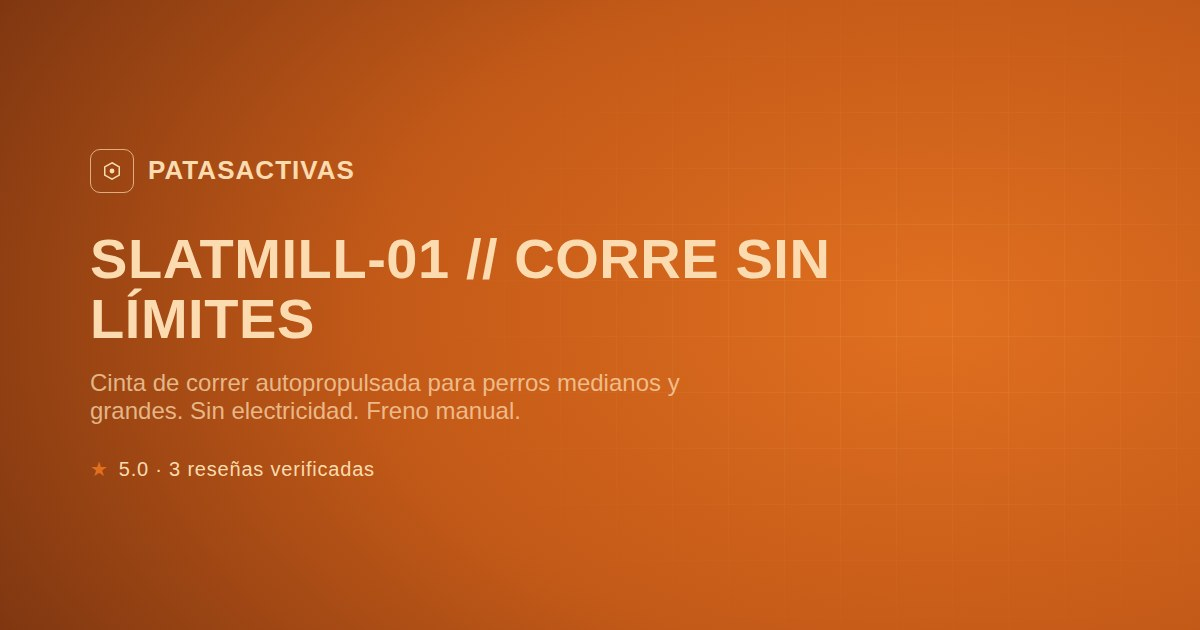
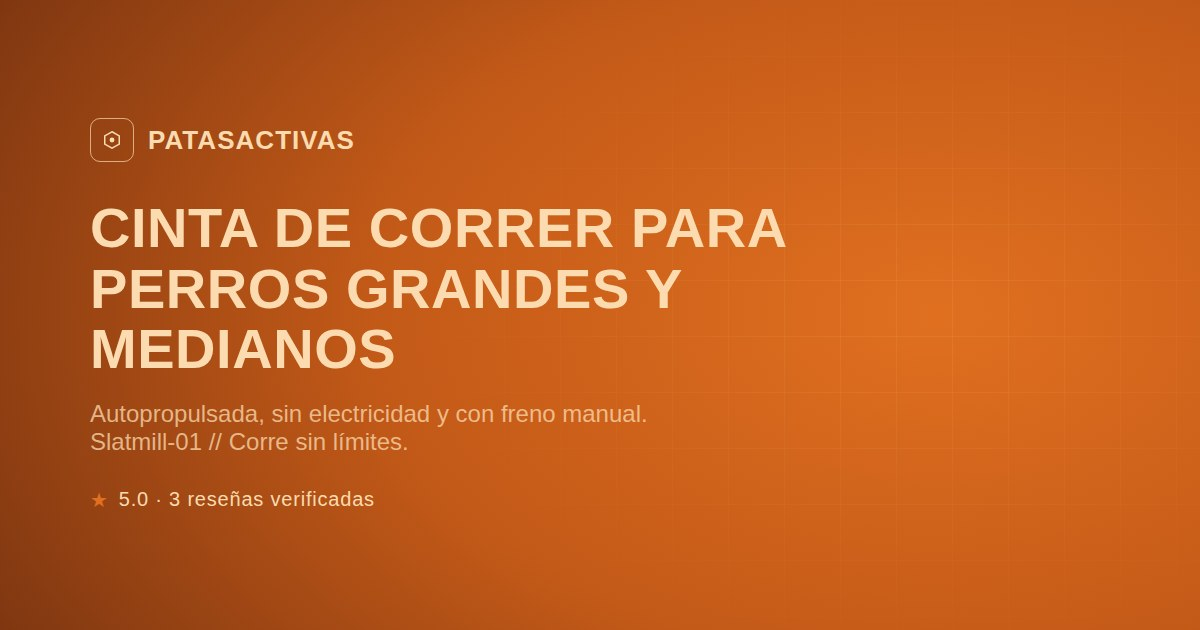
Retarget SEO to "cinta de correr para perros grandes y medianos"
Confirmed via search that this exact phrase (in this word order) is
how the product is actually searched and listed on Amazon. Updated:

- <title>, meta description, OG/Twitter tags, and the Product JSON-LD
  name/description to lead with the exact keyword.
- H1: now "Cinta de correr // para perros grandes y medianos" (was a
  pure brand tagline with no keyword in the actual H1 tag); moved the
  "Slatmill-01 // Corre sin límites" tagline into the kicker above it.
- Hero paragraph rewritten keyword-first, matching commercial/
  comparison search intent, with breed examples (Labrador, Golden
  Retriever, Husky, Border Collie) for semantic long-tail coverage.
- Reordered "medianos y grandes" -> "grandes y medianos" everywhere in
  our own copy to match the target phrase, except inside the verbatim
  quoted customer review, which is left untouched.
- Regenerated og-image.jpg with the new headline.

Claude-Session: https://claude.ai/code/session_01EX1JRL2Upmy6F7kzBhUpak

Changed region(s): [[0.0617, 0.3317, 0.7092, 0.754], [0.0617, 0.2111, 0.3083, 0.3016], [0.0617, 0.7841, 0.3083, 0.8143]]

diff --git a/index.html b/index.html
@@ -3,23 +3,23 @@
 <head>
   <meta charset="UTF-8">
   <meta name="viewport" content="width=device-width, initial-scale=1.0">
-  <title>Cinta de Correr para Perros // PatasActivas</title>
-  <meta name="description" content="Cinta de correr para perros medianos y grandes: autopropulsada, sin electricidad, silenciosa y con freno manual. Specs, opiniones reales y precio en Amazon.">
+  <title>Cinta de Correr para Perros Grandes y Medianos | PatasActivas</title>
+  <meta name="description" content="Cinta de correr para perros grandes y medianos: autopropulsada, sin electricidad y con freno manual. Specs reales, opiniones verificadas y precio en Amazon.">
   <meta name="robots" content="index, follow">
   <link rel="canonical" href="https://jaescobarc.github.io/amazon-dogs/">
 
   <meta property="og:type" content="website">
   <meta property="og:url" content="https://jaescobarc.github.io/amazon-dogs/">
   <meta property="og:locale" content="es_ES">
-  <meta property="og:title" content="Cinta de Correr para Perros // PatasActivas">
-  <meta property="og:description" content="Autopropulsada, silenciosa y con freno manual. Para perros medianos y grandes que no se detienen ante nada.">
+  <meta property="og:title" content="Cinta de Correr para Perros Grandes y Medianos | PatasActivas">
+  <meta property="og:description" content="Autopropulsada, silenciosa y con freno manual. Para perros grandes y medianos que no se detienen ante nada.">
   <meta property="og:image" content="https://jaescobarc.github.io/amazon-dogs/og-image.jpg">
   <meta property="og:image:width" content="1200">
   <meta property="og:image:height" content="630">
 
   <meta name="twitter:card" content="summary_large_image">
-  <meta name="twitter:title" content="Cinta de Correr para Perros // PatasActivas">
-  <meta name="twitter:description" content="Autopropulsada, silenciosa y con freno manual. Para perros medianos y grandes.">
+  <meta name="twitter:title" content="Cinta de Correr para Perros Grandes y Medianos | PatasActivas">
+  <meta name="twitter:description" content="Autopropulsada, silenciosa y con freno manual. Para perros grandes y medianos.">
   <meta name="twitter:image" content="https://jaescobarc.github.io/amazon-dogs/og-image.jpg">
 
   <link rel="preconnect" href="https://fonts.googleapis.com">
@@ -31,8 +31,8 @@
   {
     "@context": "https://schema.org",
     "@type": "Product",
-    "name": "Cinta de Correr para Perros Slatmill Autopropulsada",
-    "description": "Cinta de correr autopropulsada para perros medianos y grandes, con freno manual, banda de carrera 170x50 cm, capacidad 200 kg, funcionamiento silencioso para interior.",
+    "name": "Cinta de Correr para Perros Grandes y Medianos Slatmill Autopropulsada",
+    "description": "Cinta de correr autopropulsada para perros grandes y medianos, con freno manual, banda de carrera 170x50 cm, capacidad 200 kg, funcionamiento silencioso para interior.",
     "image": "https://jaescobarc.github.io/amazon-dogs/og-image.jpg",
     "brand": { "@type": "Brand", "name": "RivieraSink" },
     "aggregateRating": { "@type": "AggregateRating", "ratingValue": "5.0", "reviewCount": "3" },
@@ -591,14 +591,14 @@
 
       <div class="hero-left">
         <div class="hero-copy">
-          <div class="hero-kicker fade-up-reveal" data-delay="0.2">Cinta de Correr para Perros — Autopropulsada</div>
+          <div class="hero-kicker fade-up-reveal" data-delay="0.2">Slatmill-01 // Corre sin límites</div>
           <h1 class="words-pull-up">
-            <span class="pull-line">SLATMILL-01 //</span>
-            <span class="pull-line">CORRE SIN</span>
-            <span class="pull-line">LÍMITES</span>
+            <span class="pull-line">CINTA DE CORRER //</span>
+            <span class="pull-line">PARA PERROS GRANDES</span>
+            <span class="pull-line">Y MEDIANOS</span>
           </h1>
           <p class="fade-up-reveal" data-delay="0.5">
-            Cinta de correr para perros medianos y grandes: autopropulsada, sin electricidad y con freno manual. Estructura de acero al carbono y banda extraancha de 170×50&nbsp;cm para que tu perro corra en casa, llueva, nieve o no tengas tiempo para el paseo.
+            Cinta de correr para perros grandes y medianos: autopropulsada, sin electricidad y con freno manual. Estructura de acero al carbono y banda extraancha de 170×50&nbsp;cm, pensada para razas como Labrador, Golden Retriever, Husky o Border Collie que necesitan correr en casa, llueva, nieve o no tengas tiempo para el paseo.
           </p>
 
           <div class="specs-inline fade-up-reveal" data-delay="0.6">
@@ -795,7 +795,7 @@
             <li class="fade-up-reveal" data-delay="0.19">
               <span class="check"><svg viewBox="0 0 24 24" fill="none" stroke="currentColor" stroke-width="3" stroke-linecap="round" stroke-linejoin="round"><polyline points="20 6 9 17 4 12"/></svg></span>
               <div>
-                <h4>Pensada para razas medianas y grandes</h4>
+                <h4>Pensada para razas grandes y medianas</h4>
                 <p>Golden Retriever, Labrador, Husky, Border Collie y razas de tamaño similar corren cómodas sobre su banda extraancha.</p>
               </div>
             </li>
